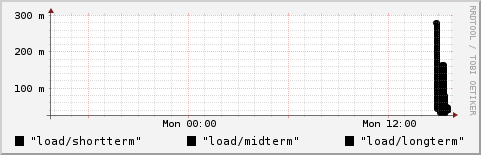
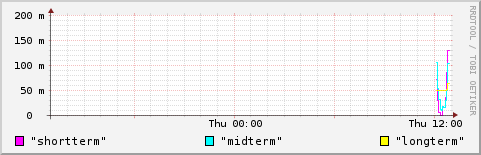
Improved graph rendering :  - default values for Width field  - Using ColorField  - Added MEDIA_* in urls.py and settings.py  - Added the graph image as a beginning, in graph_detail.html  - graph.path no more contains the PNGROOT part  - new graphs available

diff --git a/templates/treeroad/graph_detail.html b/templates/treeroad/graph_detail.html
@@ -4,4 +4,7 @@
 
 {% block content %}
 {{ object }}
+<p>
+<img src="/media/graphs/{{ object.path }}"
+</p>
 {% endblock %}

diff --git a/treeroad/models.py b/treeroad/models.py
@@ -2,6 +2,7 @@ from django.db import models
 from django.conf import settings
 from django.core.urlresolvers import reverse
 from django.template.defaultfilters import slugify
+from colors import fields
 
 
 # Create your models here.
@@ -59,7 +60,7 @@ class graph(entity):
         if not self.name:
             self.name = str(self.service.name).capitalize()
             self.codename = slugify(self.name)
-        self.path = settings.PNGROOT + '/' + self.service.pathPart + '/' + str(self.codename) + '-' + str(self.id) +  '.png'
+        self.path = '/' + self.service.pathPart + '/' + str(self.codename) + '-' + str(self.id) +  '.png'
         super(graph, self).save(*args,**kwargs)
 class dataDefinition(models.Model):
     graph = models.ForeignKey(graph, related_name="defs")
@@ -86,12 +87,12 @@ class dataDefinition(models.Model):
         return str(self.data)
 class lineDefinition(models.Model):
     name = models.CharField(max_length=64)
-    width = models.DecimalField(default=0.1, max_digits=2, decimal_places=1)
+    width = models.DecimalField(default=0.5, max_digits=2, decimal_places=1)
     data = models.ForeignKey(dataDefinition, related_name="defs") # Restricted only to related objects (datasource.rrdFile = graph.rrdFile)
-    color = models.CharField(max_length=7, default='#000000')
+    color = fields.ColorField(default='#000000')
     lastInstruction = models.CharField(max_length=128,blank=True)
     def defInstruction(self):
-        return 'LINE' + str(self.id) + ':' + self.data.vname() + self.color + ':"' + self.name + '"'
+        return 'LINE' + str(self.width) + ':' + self.data.vname() + self.color + ':"' + self.name + '"'
     def save(self, *args, **kwargs):
         super(lineDefinition, self).save(*args, **kwargs) # Call the "real" save() method. FIXME: This is the wrong way
         self.lastInstruction = self.defInstruction()

diff --git a/settings.py b/settings.py
@@ -44,12 +44,12 @@ USE_L10N = True
 
 # Absolute filesystem path to the directory that will hold user-uploaded files.
 # Example: "/home/media/media.lawrence.com/media/"
-MEDIA_ROOT = ''
+MEDIA_ROOT = '/home/test/exports/area13/media/'
 
 # URL that handles the media served from MEDIA_ROOT. Make sure to use a
 # trailing slash.
 # Examples: "http://media.lawrence.com/media/", "http://example.com/media/"
-MEDIA_URL = ''
+MEDIA_URL = '/media/'
 
 # Absolute path to the directory static files should be collected to.
 # Don't put anything in this directory yourself; store your static files
@@ -120,6 +120,7 @@ INSTALLED_APPS = (
     'area13.treeroad',
     'django_extensions',
     'adminplus',
+    'colors',
 )
 
 # A sample logging configuration. The only tangible logging

diff --git a/urls.py b/urls.py
@@ -1,13 +1,17 @@
 from django.conf.urls.defaults import patterns, include, url
 
 from django.contrib import admin
+from django.http import HttpResponseRedirect
 from adminplus import AdminSitePlus
+from django.conf import settings
+from django.conf.urls.static import static
 
 #admin.site = AdminSitePlus()
 admin.autodiscover()
 
 urlpatterns = patterns('',
+    #url(r'^$',  lambda x: HttpResponseRedirect('/treeroad/')),
     url(r'^treeroad/', include('area13.treeroad.urls')),
     url(r'^admin/doc/', include('django.contrib.admindocs.urls')),
     url(r'^admin/', include(admin.site.urls)),
-)
+) + static(settings.MEDIA_URL, document_root=settings.MEDIA_ROOT)

diff --git a/treeroad/tasks.py b/treeroad/tasks.py
@@ -34,7 +34,7 @@ def drawGraph(graph):
             os.chdir(settings.RRDROOT)
         if not os.path.exists(os.path.dirname(graph.path)):
             os.makedirs(os.path.dirname(graph.path))
-        if rrdtool.graph(str(graph.path),*options):
+        if rrdtool.graph(settings.PNGROOT + str(graph.path),*options):
             graph.lastCommandLine = options
             graph.save()
             return True
